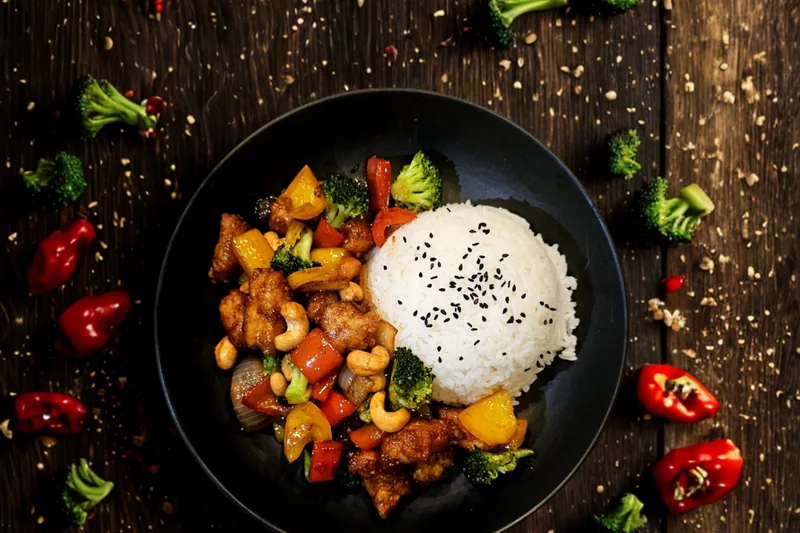
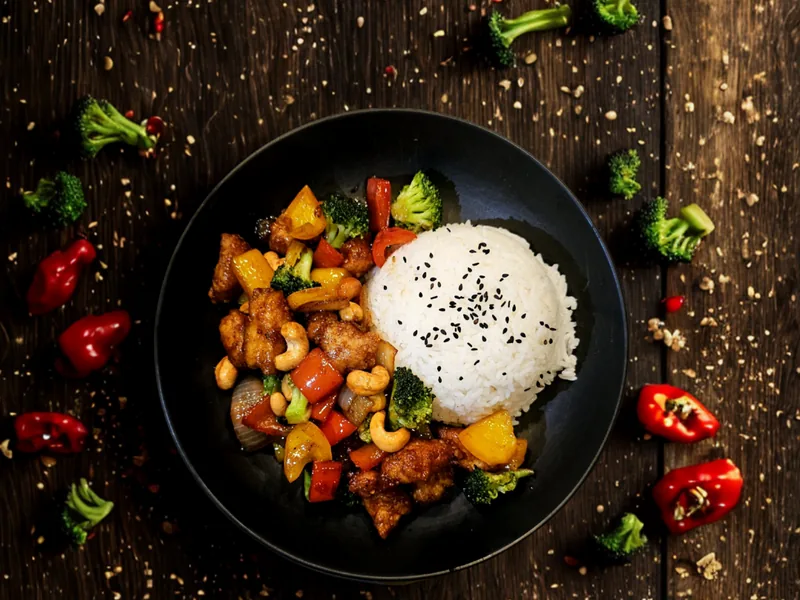
Gerichtefotos: 4:3 statt 3:2, auf die Tellermitte zentriert
Felix' Beobachtung war richtig: Die Fotos waren zu stark beschnitten.
Ursache war das Zielformat, nicht die Position. Die Vorlagen liegen
zwischen 0,56 (hochkant) und 1,20 - ein 3:2-Querformat schneidet davon
zu viel weg. Beim Bun Bun Salat fielen ueber 60 Prozent der Bildhoehe
weg, bei Massaman und Pad Thai war der Teller unten angeschnitten.

Zwei Aenderungen

  Format 4:3 statt 3:2. Damit bleibt bei den hochkanten Vorlagen rund
  ein Drittel mehr Bildhoehe stehen.

  Zuschnitt auf den Schwerpunkt der Farbsaettigung statt auf die
  geometrische Mitte. Das Essen ist bunt, Holz und Schatten sind nahezu
  unbunt - der saettigungsgewichtete Schwerpunkt liegt deshalb
  zuverlaessig auf dem Teller. Nachgemessen ueber alle 14 Bilder: die
  Schwerpunkte liegen zwischen 0,45 und 0,57 auf der x-Achse und
  zwischen 0,45 und 0,52 auf der y-Achse, also dicht beieinander. Die
  Aufnahmen sind gut komponiert; falsch war nur mein Ausschnitt.

Darstellung

  Das Bild sitzt jetzt innerhalb des Kartenpolsters statt randlos an der
  Oberkante und bekommt eine Haarlinie als Rahmen. Dadurch wirkt es
  schmaler und ruhiger, obwohl das Seitenverhaeltnis hoeher ist - die
  tatsaechliche Bildhoehe auf der Seite bleibt praktisch gleich.

Dateigroesse 999 statt 899 KB fuer alle 14 Fotos. Der Zuwachs geht auf
die groessere Bildflaeche und ist bei rund 70 KB pro Foto vertretbar.

diff --git a/speisekarte.html b/speisekarte.html
@@ -1036,9 +1036,13 @@
   .dishes{display:grid;grid-template-columns:1fr 1fr;gap:1px;background:var(--line);border:1px solid var(--line);}
   .dish{background:var(--bg);padding:44px 36px;}
   section[style] .dish{background:var(--bg-2);}
-  /* Foto randlos an der Kartenoberkante: die negativen Ränder heben das
-     Innenpolster der Karte auf. width/height verhindern Layoutsprünge. */
-  .dish img{width:calc(100% + 72px);height:auto;margin:-44px -36px 26px;max-width:none;}
+  /* Das Foto sitzt innerhalb des Kartenpolsters statt randlos an der Oberkante.
+     Zusammen mit dem 4:3-Zuschnitt (statt 3:2) bleibt deutlich mehr vom Teller
+     stehen — bei den hochkanten Vorlagen fiel vorher über die Hälfte weg.
+     Der Zuschnitt ist auf den Schwerpunkt der Farbsättigung zentriert, der bei
+     diesen Aufnahmen zuverlässig auf dem Teller liegt. width/height verhindern
+     Layoutsprünge beim Nachladen. */
+  .dish img{width:100%;height:auto;margin:0 0 24px;border:1px solid var(--line);}
   .dish h3{font-size:1.5rem;margin-bottom:12px;}
   .dish > p{color:var(--cream-dim);font-size:0.92rem;margin-bottom:18px;}
   .tags{display:flex;flex-wrap:wrap;gap:8px;margin-bottom:22px;}
@@ -1138,7 +1142,7 @@
     section{padding:80px 0;}
     .dishes{grid-template-columns:1fr;}
     .dish{padding:36px 26px;}
-    .dish img{width:calc(100% + 52px);margin:-36px -26px 22px;}
+    .dish img{margin-bottom:20px;}
     /* Vier Spalten auf schmalen Displays: Schrift und Innenabstand zurücknehmen,
        damit "Mit Hähnchen" und drei Preise nebeneinander passen. */
     .preise th,.preise td{padding:10px 4px;font-size:0.78rem;}
@@ -1237,42 +1241,42 @@
     </div>
     <div class="dishes">
       <article class="dish">
-        <img src="img/gerichte/gruenes-thai-curry.webp" width="800" height="533" loading="lazy" alt="Grünes Thai Curry mit grünen Bohnen und Hähnchen">
+        <img src="img/gerichte/gruenes-thai-curry.webp" width="800" height="600" loading="lazy" alt="Grünes Thai Curry mit grünen Bohnen und Hähnchen">
         <h3>Grünes Thai Curry</h3>
         <p>Ein feuriges Thai Curry mit Zucchini, grünen Bohnen und Karotten. Entweder mit mariniertem Hähnchenfleisch oder als vegane Variante mit Süßkartoffeln.</p>
         <div class="tags"><span class="tag">vegan möglich</span><span class="tag">feurig</span></div>
         <table class="preise"><thead><tr><th scope="col"><span class="vh">Variante</span></th><th scope="col">Normal</th><th scope="col">Klein</th><th scope="col">Schüler</th></tr></thead><tbody><tr><th scope="row">Mit Hähnchen</th><td data-label="Normal">9,90 €</td><td data-label="Klein">7,50 €</td><td data-label="Schüler">7,50 €</td></tr><tr><th scope="row">Vegan</th><td data-label="Normal">9,40 €</td><td data-label="Klein">7,00 €</td><td data-label="Schüler">7,00 €</td></tr></tbody></table>
       </article>
       <article class="dish">
-        <img src="img/gerichte/gelbes-thai-curry.webp" width="800" height="533" loading="lazy" alt="Gelbes Thai Curry mit Kartoffeln in dunkler Schale">
+        <img src="img/gerichte/gelbes-thai-curry.webp" width="800" height="600" loading="lazy" alt="Gelbes Thai Curry mit Kartoffeln in dunkler Schale">
         <h3>Gelbes Thai Curry</h3>
         <p>Ein mildes südthailändisches Curry mit Kartoffeln, Zwiebeln und Karotten. Entweder mit zartem Hähnchenfleisch oder alternativ mit Süßkartoffeln.</p>
         <div class="tags"><span class="tag">vegan möglich</span><span class="tag">mild</span></div>
         <table class="preise"><thead><tr><th scope="col"><span class="vh">Variante</span></th><th scope="col">Normal</th><th scope="col">Klein</th><th scope="col">Schüler</th></tr></thead><tbody><tr><th scope="row">Mit Hähnchen</th><td data-label="Normal">9,90 €</td><td data-label="Klein">7,50 €</td><td data-label="Schüler">7,50 €</td></tr><tr><th scope="row">Vegan</th><td data-label="Normal">9,40 €</td><td data-label="Klein">7,00 €</td><td data-label="Schüler">7,00 €</td></tr></tbody></table>
       </article>
       <article class="dish">
-        <img src="img/gerichte/panang-thai-curry.webp" width="800" height="533" loading="lazy" alt="Panang Thai Curry mit Karotten und grünen Bohnen">
+        <img src="img/gerichte/panang-thai-curry.webp" width="800" height="600" loading="lazy" alt="Panang Thai Curry mit Karotten und grünen Bohnen">
         <h3>Panang Thai Curry</h3>
         <p>Pikantes Thai Curry mit grünen Bohnen, Karotten, Brokkoli und Kaffirlimettenblättern. Entweder mit mariniertem Hähnchenfleisch oder alternativ mit Süßkartoffeln.</p>
         <div class="tags"><span class="tag">vegan möglich</span><span class="tag">pikant</span></div>
         <table class="preise"><thead><tr><th scope="col"><span class="vh">Variante</span></th><th scope="col">Normal</th><th scope="col">Klein</th><th scope="col">Schüler</th></tr></thead><tbody><tr><th scope="row">Mit Hähnchen</th><td data-label="Normal">9,90 €</td><td data-label="Klein">7,50 €</td><td data-label="Schüler">7,50 €</td></tr><tr><th scope="row">Vegan</th><td data-label="Normal">9,40 €</td><td data-label="Klein">7,00 €</td><td data-label="Schüler">7,00 €</td></tr></tbody></table>
       </article>
       <article class="dish">
-        <img src="img/gerichte/massaman-thai-curry.webp" width="800" height="533" loading="lazy" alt="Massaman Curry mit Kartoffeln in dunkler Schale">
+        <img src="img/gerichte/massaman-thai-curry.webp" width="800" height="600" loading="lazy" alt="Massaman Curry mit Kartoffeln in dunkler Schale">
         <h3>Massaman Thai Curry</h3>
         <p>Ein würziges, leicht pikantes Thai Curry mit Kokosmilch, Kartoffeln, Zwiebeln und Karotten. Entweder mit zartem Hähnchenfleisch oder alternativ mit Süßkartoffeln.</p>
         <div class="tags"><span class="tag">vegan möglich</span></div>
         <table class="preise"><thead><tr><th scope="col"><span class="vh">Variante</span></th><th scope="col">Normal</th><th scope="col">Klein</th><th scope="col">Schüler</th></tr></thead><tbody><tr><th scope="row">Mit Hähnchen</th><td data-label="Normal">9,90 €</td><td data-label="Klein">7,50 €</td><td data-label="Schüler">7,50 €</td></tr><tr><th scope="row">Vegan</th><td data-label="Normal">9,40 €</td><td data-label="Klein">7,00 €</td><td data-label="Schüler">7,00 €</td></tr></tbody></table>
       </article>
       <article class="dish">
-        <img src="img/gerichte/nepalesisches-pilzcurry.webp" width="800" height="533" loading="lazy" alt="Nepalesisches Pilzcurry mit Champignons und Erbsen">
+        <img src="img/gerichte/nepalesisches-pilzcurry.webp" width="800" height="600" loading="lazy" alt="Nepalesisches Pilzcurry mit Champignons und Erbsen">
         <h3>Nepalesisches Pilzcurry</h3>
         <p>Ein mit verschiedenen Gewürzen aromatisiertes, mildes Curry mit Champignons, Erbsen und Tomatenstücken. Entweder mit zartem Hähnchenfleisch oder alternativ mit extra Gemüse.</p>
         <div class="tags"><span class="tag">vegan möglich</span><span class="tag">mild</span></div>
         <table class="preise"><thead><tr><th scope="col"><span class="vh">Variante</span></th><th scope="col">Normal</th><th scope="col">Klein</th><th scope="col">Schüler</th></tr></thead><tbody><tr><th scope="row">Mit Hähnchen</th><td data-label="Normal">10,90 €</td><td data-label="Klein">8,50 €</td><td data-label="Schüler">8,50 €</td></tr><tr><th scope="row">Vegan</th><td data-label="Normal">9,40 €</td><td data-label="Klein">7,00 €</td><td data-label="Schüler">7,00 €</td></tr></tbody></table>
       </article>
       <article class="dish">
-        <img src="img/gerichte/java-curry.webp" width="800" height="533" loading="lazy" alt="Java Curry mit Kichererbsen und Jasminreis">
+        <img src="img/gerichte/java-curry.webp" width="800" height="600" loading="lazy" alt="Java Curry mit Kichererbsen und Jasminreis">
         <h3>Java Curry</h3>
         <p>Ein exotisches Kichererbsencurry mit Jasminreis, Limettenschnitz und frischem Koriander. Cremig durch die Kichererbsen, frisch durch Koriander und Limette – leicht, aber mit Charakter.</p>
         <div class="tags"><span class="tag">vegan möglich</span><span class="tag">cremig</span></div>
@@ -1291,7 +1295,7 @@
     </div>
     <div class="dishes">
       <article class="dish">
-        <img src="img/gerichte/pad-thai.webp" width="800" height="533" loading="lazy" alt="Pad Thai mit Limette und gerösteten Erdnüssen auf dunklem Holz">
+        <img src="img/gerichte/pad-thai.webp" width="800" height="600" loading="lazy" alt="Pad Thai mit Limette und gerösteten Erdnüssen auf dunklem Holz">
         <h3>Pad Thai</h3>
         <p>In Pearls selbstgemachter Pad-Thai-Sauce angebratene Reisbandnudeln mit Karottenstreifen, Frühlingszwiebeln und Ei. Entweder mit mariniertem Hähnchenfleisch oder Crispy Tofu.</p>
         <div class="tags"><span class="tag">vegetarisch möglich</span><span class="tag">enthält Ei</span></div>
@@ -1304,7 +1308,7 @@
         <table class="preise"><thead><tr><th scope="col"><span class="vh">Variante</span></th><th scope="col">Normal</th><th scope="col">Klein</th><th scope="col">Schüler</th></tr></thead><tbody><tr><th scope="row">Mit Hähnchen</th><td data-label="Normal">9,90 €</td><td data-label="Klein">7,50 €</td><td data-label="Schüler">7,50 €</td></tr><tr><th scope="row">Vegan</th><td data-label="Normal">9,40 €</td><td data-label="Klein">7,00 €</td><td data-label="Schüler">7,00 €</td></tr></tbody></table>
       </article>
       <article class="dish">
-        <img src="img/gerichte/kimchi-bacon-udon.webp" width="800" height="533" loading="lazy" alt="Kimchi-Bacon Udonnudeln mit Spiegelei">
+        <img src="img/gerichte/kimchi-bacon-udon.webp" width="800" height="600" loading="lazy" alt="Kimchi-Bacon Udonnudeln mit Spiegelei">
         <h3>Kimchi-Bacon Udonnudeln</h3>
         <p>Gebratene Udonnudeln in einer feurigen Gochujang-Soße mit pikantem Kimchi, Frühlingszwiebeln, Noristreifen und koreanischem Spitzkohlsalat. Dazu knuspriger Bacon oder Crispy Tofu, wahlweise mit Spiegelei.</p>
         <div class="tags"><span class="tag">vegetarisch möglich</span><span class="tag">feurig scharf</span></div>
@@ -1323,14 +1327,14 @@
     </div>
     <div class="dishes">
       <article class="dish">
-        <img src="img/gerichte/orange-chicken.webp" width="800" height="533" loading="lazy" alt="Orange Chicken mit Wokgemüse und Reis in dunkler Schale">
+        <img src="img/gerichte/orange-chicken.webp" width="800" height="600" loading="lazy" alt="Orange Chicken mit Wokgemüse und Reis in dunkler Schale">
         <h3>Orange Chicken</h3>
         <p>In einer fruchtigen süß-sauren Orangensoße gebratenes Wokgemüse aus Brokkoli, Paprika und Karotten. Dazu wahlweise knuspriges Hähnchen oder alternativ Crispy Tofu.</p>
         <div class="tags"><span class="tag">vegetarisch möglich</span></div>
         <table class="preise"><thead><tr><th scope="col"><span class="vh">Variante</span></th><th scope="col">Normal</th><th scope="col">Klein</th><th scope="col">Schüler</th></tr></thead><tbody><tr><th scope="row">Mit Hähnchen</th><td data-label="Normal">10,90 €</td><td data-label="Klein">8,50 €</td><td data-label="Schüler">8,50 €</td></tr><tr><th scope="row">Vegetarisch</th><td data-label="Normal">9,40 €</td><td data-label="Klein">7,00 €</td><td data-label="Schüler">7,00 €</td></tr></tbody></table>
       </article>
       <article class="dish">
-        <img src="img/gerichte/hoisin-chicken.webp" width="800" height="533" loading="lazy" alt="Hoisin Chicken mit Brokkoli, Paprika und Reis">
+        <img src="img/gerichte/hoisin-chicken.webp" width="800" height="600" loading="lazy" alt="Hoisin Chicken mit Brokkoli, Paprika und Reis">
         <h3>Hoisin Chicken</h3>
         <p>Knackiges Wokgemüse aus Brokkoli, Paprika und Zwiebeln mit gerösteten Cashewnüssen in einer aromatischen Hoisinsauce. Wahlweise mit knusprigem Hähnchen oder Crispy Tofu.</p>
         <div class="tags"><span class="tag">vegan möglich</span><span class="tag">enthält Cashewnüsse</span></div>
@@ -1385,21 +1389,21 @@
         <table class="preise"><thead><tr><th scope="col"><span class="vh">Variante</span></th><th scope="col">Normal</th><th scope="col">Klein</th><th scope="col">Schüler</th></tr></thead><tbody><tr><th scope="row">Mit Hähnchen</th><td data-label="Normal">10,90 €</td><td data-label="Klein">8,50 €</td><td data-label="Schüler">8,50 €</td></tr><tr><th scope="row">Vegan</th><td data-label="Normal">9,40 €</td><td data-label="Klein">7,00 €</td><td data-label="Schüler">7,00 €</td></tr></tbody></table>
       </article>
       <article class="dish">
-        <img src="img/gerichte/soba-nudelsalat.webp" width="800" height="533" loading="lazy" alt="Soba Nudelsalat mit Tomaten, Gurke und Hähnchen">
+        <img src="img/gerichte/soba-nudelsalat.webp" width="800" height="600" loading="lazy" alt="Soba Nudelsalat mit Tomaten, Gurke und Hähnchen">
         <h3>Soba Nudelsalat</h3>
         <p>Ein sommerlicher Nudelsalat mit japanischen Buchweizennudeln, Karottenstreifen, Tomaten, Gurken und Edamame, angemacht in einem erfrischenden Ponzudressing. Entweder mit Hähnchen oder Crispy Tofu. Enthält eine gute Portion Knoblauch.</p>
         <div class="tags"><span class="tag">vegan möglich</span><span class="tag">kräftig mit Knoblauch</span></div>
         <table class="preise"><thead><tr><th scope="col"><span class="vh">Variante</span></th><th scope="col">Normal</th><th scope="col">Klein</th><th scope="col">Schüler</th></tr></thead><tbody><tr><th scope="row">Mit Hähnchen</th><td data-label="Normal">10,90 €</td><td data-label="Klein">8,50 €</td><td data-label="Schüler">8,50 €</td></tr><tr><th scope="row">Vegan</th><td data-label="Normal">9,40 €</td><td data-label="Klein">8,00 €</td><td data-label="Schüler">8,00 €</td></tr></tbody></table>
       </article>
       <article class="dish">
-        <img src="img/gerichte/ramennudelsalat.webp" width="800" height="533" loading="lazy" alt="Ramennudelsalat mit Sesamdressing, Gurke und Tomaten">
+        <img src="img/gerichte/ramennudelsalat.webp" width="800" height="600" loading="lazy" alt="Ramennudelsalat mit Sesamdressing, Gurke und Tomaten">
         <h3>Ramennudelsalat mit Sesamdressing</h3>
         <p>Japanische Ramennudeln in einem leckeren Sesamdressing, mit Rotkohl, Salat, Karottenstreifen, Tomaten und Gurken. Entweder mit gebratenem Hähnchenfleisch oder alternativ mit Crispy Tofu. Auf Wunsch mit einem Ei.</p>
         <div class="tags"><span class="tag">vegetarisch möglich</span></div>
         <table class="preise"><thead><tr><th scope="col"><span class="vh">Variante</span></th><th scope="col">Normal</th><th scope="col">Klein</th><th scope="col">Schüler</th></tr></thead><tbody><tr><th scope="row">Mit Hähnchen</th><td data-label="Normal">9,90 €</td><td data-label="Klein">7,50 €</td><td data-label="Schüler">7,50 €</td></tr><tr><th scope="row">Vegan</th><td data-label="Normal">9,40 €</td><td data-label="Klein">7,00 €</td><td data-label="Schüler">7,00 €</td></tr></tbody></table>
       </article>
       <article class="dish">
-        <img src="img/gerichte/bun-bun-salat.webp" width="800" height="533" loading="lazy" alt="Bun Bun Salat mit Reisnudeln, Tomaten und frischen Kräutern">
+        <img src="img/gerichte/bun-bun-salat.webp" width="800" height="600" loading="lazy" alt="Bun Bun Salat mit Reisnudeln, Tomaten und frischen Kräutern">
         <h3>Bun Bun Salat</h3>
         <p>Ein sommerlicher Salat mit Reisnudeln, Karottenstreifen, Babyspinat, Cocktailtomaten, Gurken, roten Zwiebeln, Minze und auf Wunsch mit Koriander. Zur Wahl stehen gezupfte Hähnchenbrust oder veganes Hack.</p>
         <div class="tags"><span class="tag">vegan möglich</span><span class="tag">mild würzig</span></div>
@@ -1417,7 +1421,7 @@
     </div>
     <div class="dishes">
       <article class="dish">
-        <img src="img/gerichte/indonesische-glasnudelsuppe.webp" width="800" height="533" loading="lazy" alt="Indonesische Glasnudelsuppe mit Paprika und Pilzen">
+        <img src="img/gerichte/indonesische-glasnudelsuppe.webp" width="800" height="600" loading="lazy" alt="Indonesische Glasnudelsuppe mit Paprika und Pilzen">
         <h3>Indonesische Glasnudelsuppe</h3>
         <p>Pikante Hühnersuppe mit gezupftem Hähnchenfleisch, Champignons, Paprika, Mu-Err-Pilzen und Glasnudeln.</p>
         <div class="tags"><span class="tag">pikant</span></div>
